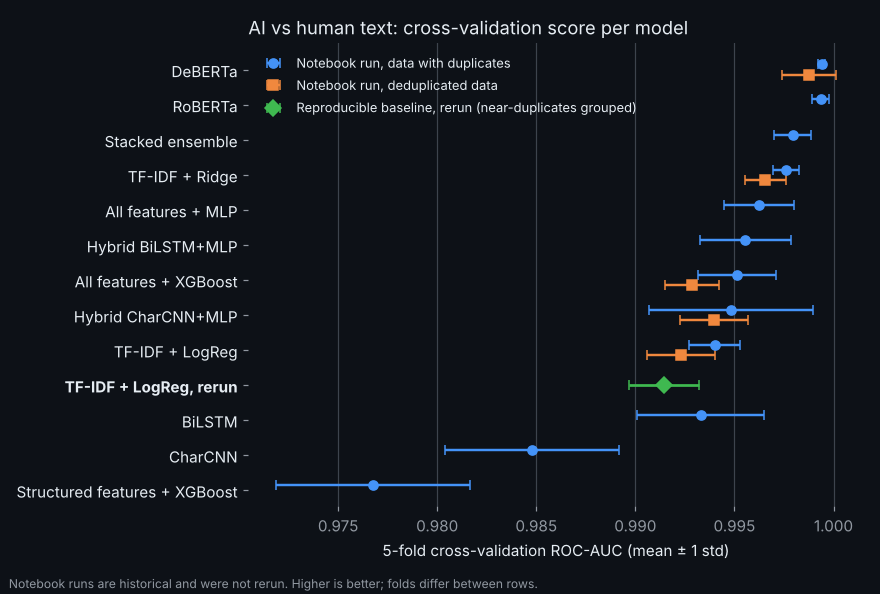
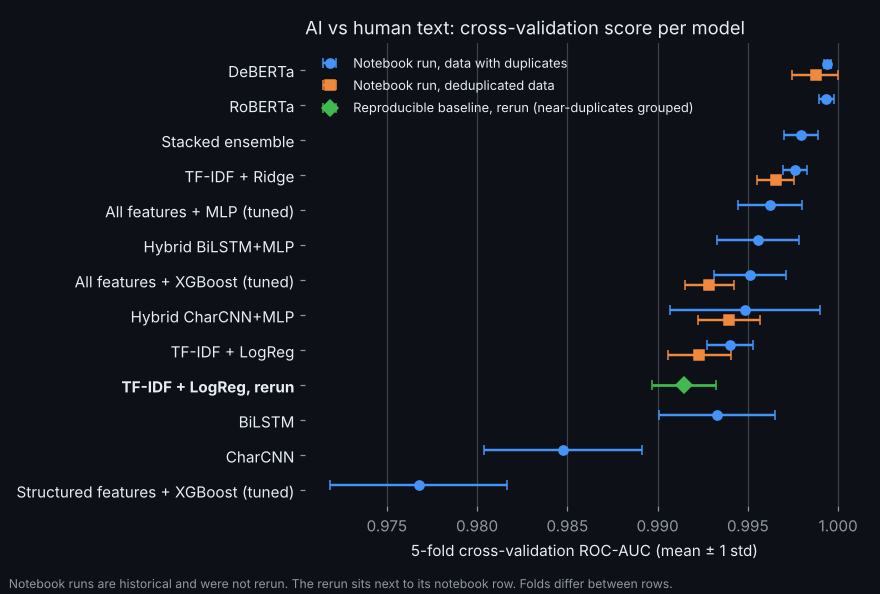
GH-6: fix review findings
Correct the Optuna seed and committed-artifacts notes, label tuned rows in
the chart, cut error bars at 1.0, and note the chart's dependencies.

Claude-Session: https://claude.ai/code/session_01M7qmE625Xwqq2RpcYzaeki

diff --git a/docs/media/make_results_chart.py b/docs/media/make_results_chart.py
@@ -12,7 +12,11 @@ Inputs (all committed):
 
 Rows left out: the stacked ensemble with no CV score, the weighted-average
 ensemble (its CV has no fold spread), and Optuna rows whose scores are
-identical to the untuned row of the same model.
+identical to the untuned row of the same model. Rows the CSV marks as
+tuned are labelled "(tuned)". Error bars are cut at 1.0.
+
+Needs pandas and matplotlib (the committed images were drawn with
+matplotlib 3.11.2): `pip install matplotlib==3.11.2 pandas`.
 
 Outputs: docs/media/cv-results-light.png and cv-results-dark.png.
 """
@@ -55,6 +59,8 @@ def load() -> tuple[pd.DataFrame, dict]:
     d = d[d["cv_roc_auc"].notna() & (d["cv_roc_auc_std"] > 0)]
     d = d[~d["display_name"].str.contains("Optuna")]
     d = d.assign(name=d["display_name"].replace(NAMES))
+    tuned = d["optimized"].astype(str).isin(["True", "T"])
+    d.loc[tuned, "name"] = d.loc[tuned, "name"] + " (tuned)"
     rerun = json.loads(REPORT.read_text())["metrics"]["mean_std"]["roc_auc"]
     return d, rerun
 
@@ -74,7 +80,9 @@ def draw(d: pd.DataFrame, rerun: dict, theme: str) -> Path:
         ("deduplicated", c["dedup"], "s", -0.15, "Notebook run, deduplicated data"),
     ]:
         rows = d[d["data_version"] == version]
-        ax.errorbar(rows["cv_roc_auc"], [y[n] + dy for n in rows["name"]], xerr=rows["cv_roc_auc_std"],
+        # ROC-AUC cannot exceed 1, so the upper bar stops there.
+        upper = (1.0 - rows["cv_roc_auc"]).clip(upper=rows["cv_roc_auc_std"])
+        ax.errorbar(rows["cv_roc_auc"], [y[n] + dy for n in rows["name"]], xerr=[rows["cv_roc_auc_std"], upper],
                     fmt=marker, color=colour, ecolor=colour, elinewidth=1.6, capsize=3, markersize=6, label=label)
     ax.errorbar([rerun["mean"]], [y[rerun_label]], xerr=[rerun["std"]], fmt="D", color=c["rerun"],
                 ecolor=c["rerun"], elinewidth=1.8, capsize=3, markersize=7,
@@ -95,7 +103,7 @@ def draw(d: pd.DataFrame, rerun: dict, theme: str) -> Path:
     leg = ax.legend(loc="upper left", frameon=False, fontsize=8.5)
     for t in leg.get_texts():
         t.set_color(c["fg"])
-    fig.text(0.01, 0.01, "Notebook runs are historical and were not rerun. Higher is better; folds differ between rows.",
+    fig.text(0.01, 0.01, "Notebook runs are historical and were not rerun. The rerun sits next to its notebook row. Folds differ between rows.",
              color=c["muted"], fontsize=8)
     fig.tight_layout(rect=(0, 0.03, 1, 1))
     path = OUT / f"cv-results-{theme}.png"

diff --git a/README.md b/README.md
@@ -52,7 +52,7 @@ python -m textbaseline train     # fit on all texts, write a submission
 Expected output:
 
 ```text
-22 passed in 13.41s
+22 passed in ...s
 ROC-AUC 0.9915 ± 0.0018; report: .../baseline/runs/evaluate/report.json
 model: .../baseline/runs/train/model.joblib; vocabulary 10000
 submission: baseline/runs/train/submission.csv (1178 rows)
@@ -137,7 +137,8 @@ notebook's Colab layout, so its numbers stay labelled historical.
 
 Winston Ho built both competition projects: the notebooks, feature
 engineering, models, write-ups, and the academic reports in each folder's
-`report.pdf`. The course provided the data and the competitions. The
+`report.pdf`. The course provided the data and the competitions (the data's source and
+licence are not recorded here). The
 reproducible baseline in `ai-vs-human-text/baseline/` was added in
 October 2026 by an AI coding agent working from Winston's issues, and he
 reviewed it and checked it on his Mac before merging.

diff --git a/docs/notebooks.md b/docs/notebooks.md
@@ -50,11 +50,13 @@ expect the transformer notebooks to need a GPU.
 
 ## Notes
 
-- Model weights and generated artifacts are not committed.
+- Model weights are not committed. Submission files and the comparison CSVs
+  are.
 - Each project folder has the academic report submitted for grading
   (`report.pdf`).
 - Notebook folds were drawn per notebook with `StratifiedKFold(5,
-  shuffle=True, random_state=42)` on whichever data version it loaded, and
-  the Optuna studies have no sampler seed. Tuned results cannot be
-  reproduced exactly. See
+  shuffle=True, random_state=42)` on whichever data version it loaded. The
+  AI-text Optuna studies in notebooks 1 to 5 have no sampler seed, so those
+  tuned results cannot be reproduced exactly. The bot detection studies use
+  `TPESampler(seed=42)`. See
   [the baseline report](../ai-vs-human-text/baseline/REPORT.md#checks).
